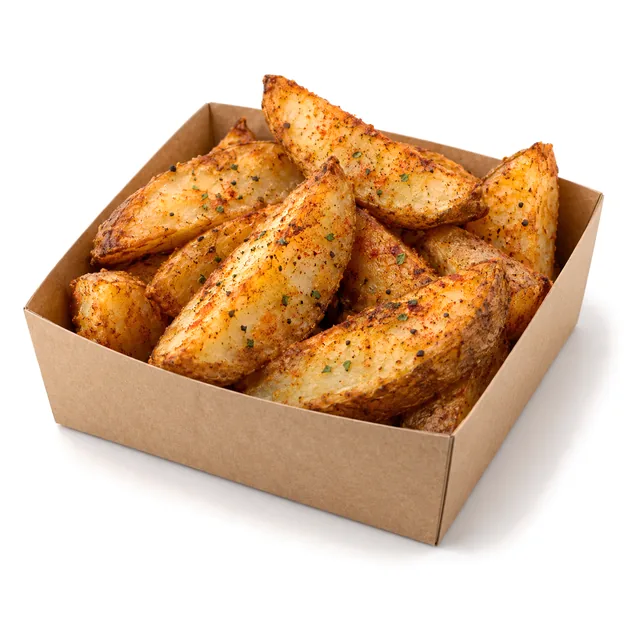
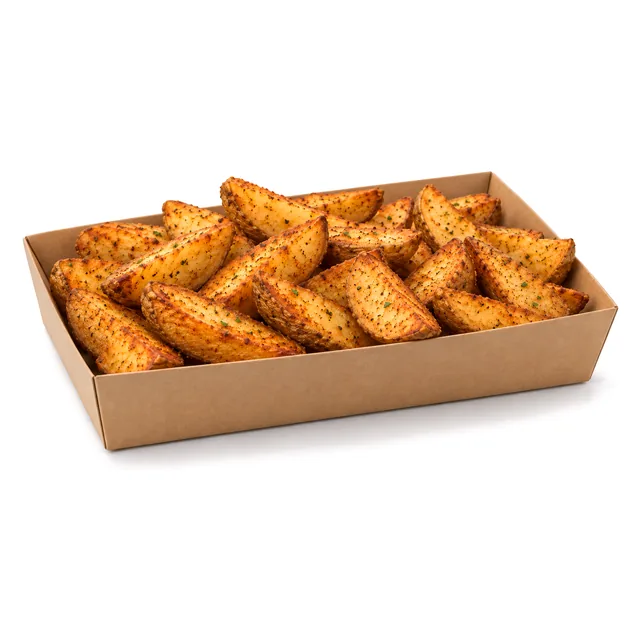
Картофель по-деревенски: фото «Средний» и «Большой» поменяны местами
По просьбе владельца: квадратная коробка теперь «Средний», длинный лоток «Большой».

diff --git a/assets/js/data.js b/assets/js/data.js
@@ -22,9 +22,9 @@
     чуть крупнее строгого масштаба, чтобы карточка не была пустой. На фото «12 шт» видно 8 палочек;
   - у Картофеля фри своё фото на «Средний» и «Большой» (владелец, 05.10.2026; владелец назвал первый «маленькой»,
     подпись осталась как на доске меню), оба в одном масштабе на общей нижней линии;
-  - у Картофеля по-деревенски своё фото на «Средний» и «Большой» (владелец, 05.10.2026). Какое фото какому размеру,
-    владелец подтвердил сам: квадратная коробка «Большой», длинный лоток «Средний». Долек в лотке больше, поэтому
-    фото вписаны в карточку каждое отдельно, без общего масштаба;
+  - у Картофеля по-деревенски своё фото на «Средний» и «Большой» (владелец, 05.10.2026): квадратная коробка
+    «Средний», длинный лоток «Большой» (так владелец поправил после первой выкладки). Фото вписаны в карточку
+    каждое отдельно, без общего масштаба;
   - часы работы 10:00-20:00 назвал владелец 02.10.2026;
   - рейтинг и отзывы: пробный сайт hink-beri.vercel.app и Яндекс Карты.
   Пункты с пометкой verify: true прочитаны с мелкой фотографии, их стоит сверить.
